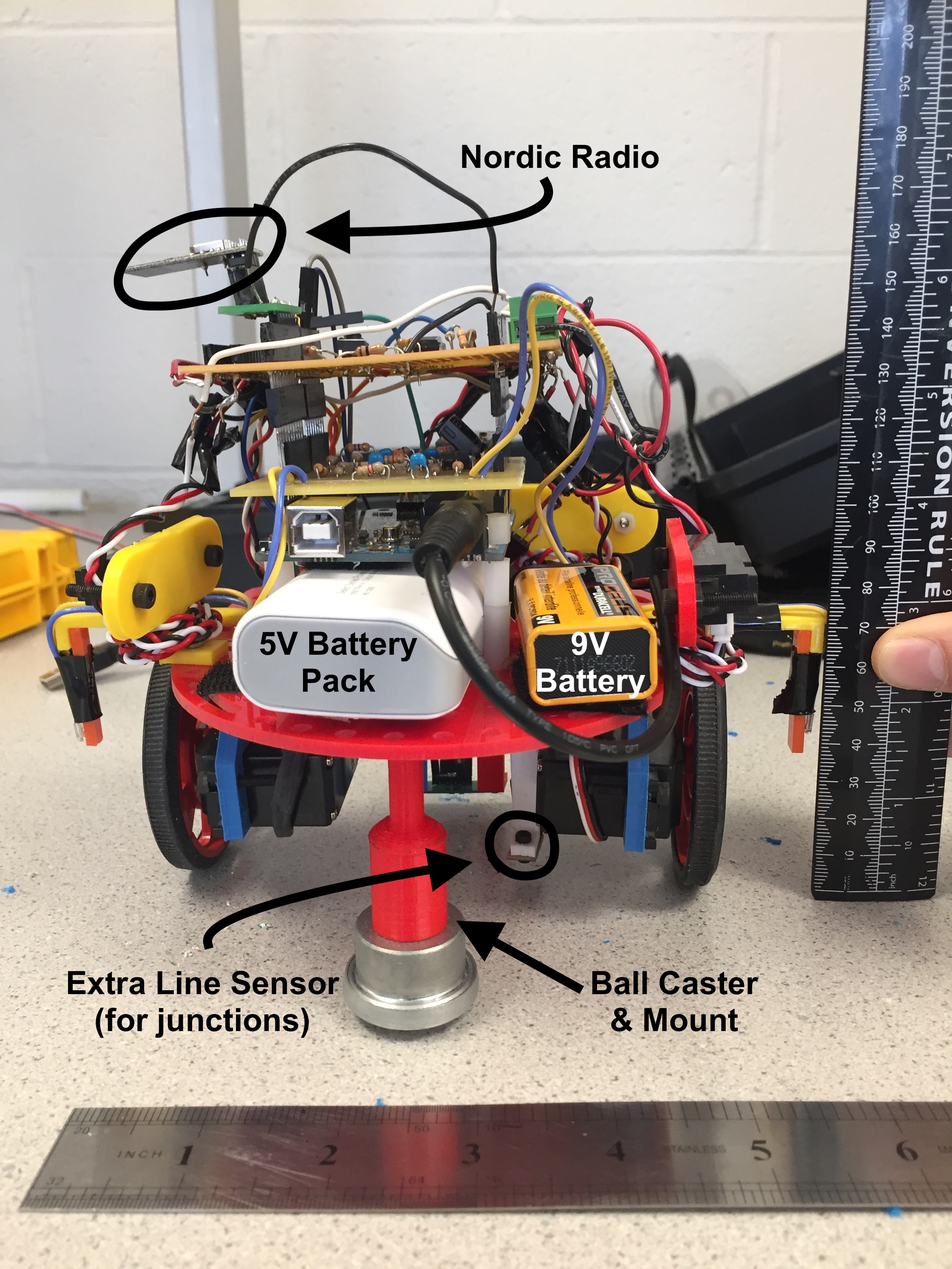
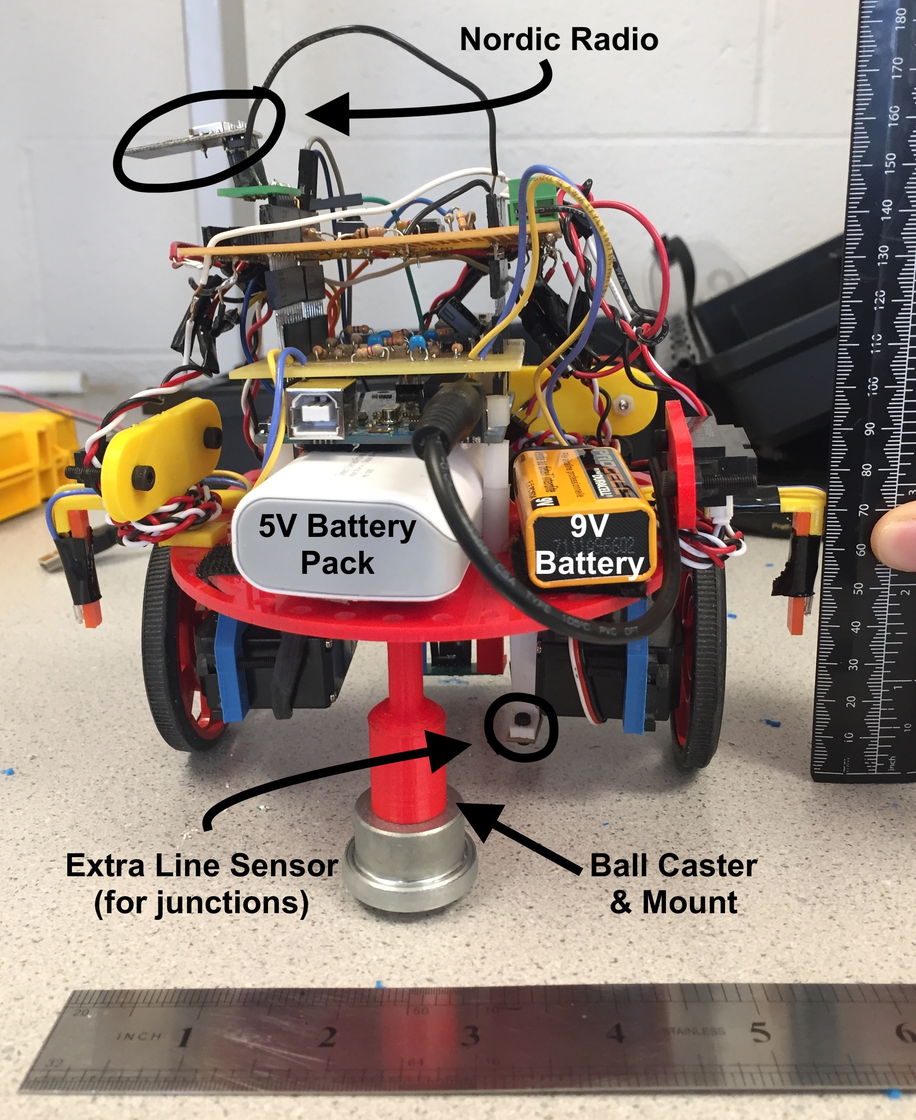
more pictures

diff --git a/index.html b/index.html
@@ -560,7 +560,9 @@
                     <p> Here's a video of our robot completing a full sucessful run of a maze! </p>
                     <iframe width="560" height="315" src="https://www.youtube.com/embed/MrBVSf_K_ng" frameborder="0" allowfullscreen></iframe><br>
 
-                    <p><b>ADD PICS HERE MICHAEL</b></p>
+                    <img class="img-fluid img-centered" src="./resources/front_bot.JPG" alt=""> <br>
+                    <img class="img-fluid img-centered" src="./resources/side_bot.JPG" alt=""> <br>
+                    <img class="img-fluid img-centered" src="./resources/back_bot.JPG" alt=""> <br>
 
                    <h3>Physical Robot Design</h3>
                     <p>Our robot was approximately 16 cm tall, 16 cm wide (20 cm if you include the width added by the treasure sensors), and 19 cm long. Our chassis, wheels, ball caster, and all mounts were the default designs provided to us at the start of the semester (the cad and .stl files necessary to make them are available on the <a href="https://github.com/CEI-lab/ece3400">course/TA GitHub</a>). We used the standard servos made available to us (Parallax Continuous Rotation Servos). We added rubber tires to the wheels to increase traction. We spent the majority of time working on the electronic components of the project.</p>
